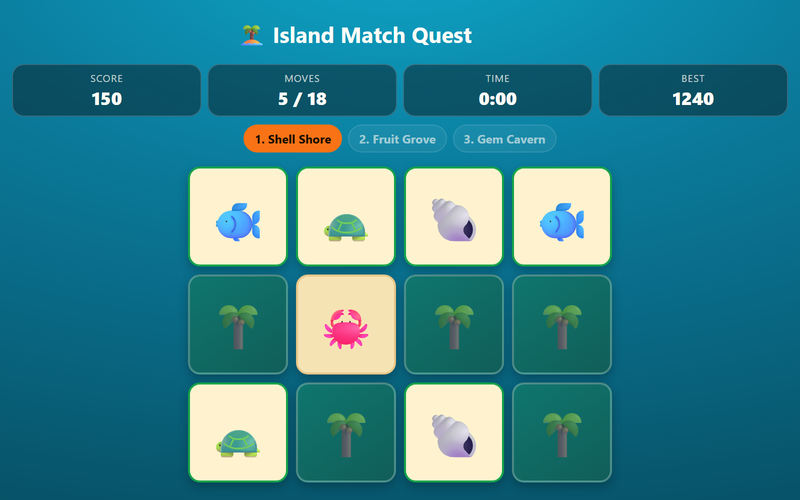
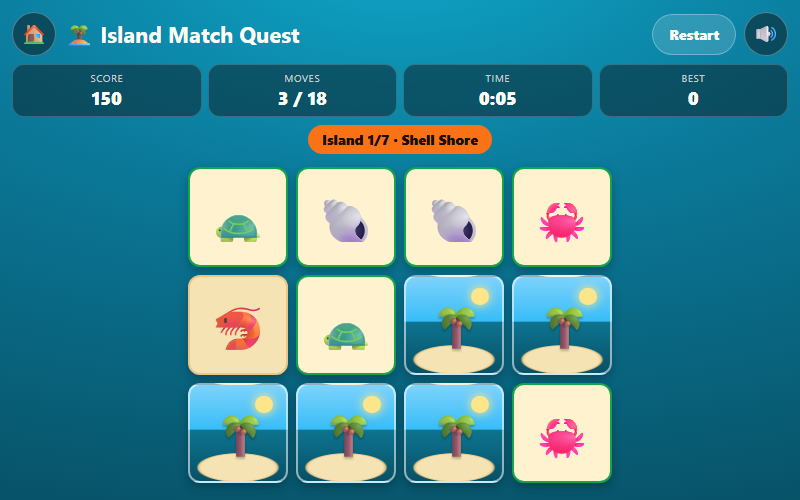
Island Match Quest: tutorial while you play, island card backs, new cover (#36)
- How-to-play box on the home screen replaced by one goal line
- First island teaches the game with short hints, one at a time
- Card backs now show a little island scene (sky, sun, sea, sand, palm)
- New 800x500 thumbnail taken from the current game

Retention: 7 unlocking islands, 21 stars to collect, saved progress.
Time well spent: memory training that grows from 6 to 14 pairs.
Money: second chance at the moment of loss (offerReward), one per island.

diff --git a/games/sumaiyahsultana821-sys/index.html b/games/sumaiyahsultana821-sys/index.html
@@ -65,13 +65,22 @@
   .btn-big:active{box-shadow:0 2px 0 #b4530a; transform:translateY(4px)}
   .cover-best{margin:0; font-size:14px; opacity:.85}
   .cover-best b{color:#ffe9b3}
-  .howto{
-    background:rgba(255,255,255,.1); border:1px solid rgba(255,255,255,.2);
-    border-radius:14px; padding:clamp(8px, 1.6vh, 14px) 16px; max-width:440px; text-align:left;
+  .goal{
+    margin:0; padding:8px 16px; border-radius:999px; max-width:440px;
+    background:rgba(255,255,255,.12); border:1px solid rgba(255,255,255,.25);
+    font-size:clamp(13px, 2vh, 15px); font-weight:700;
   }
-  .howto h2{margin:0 0 4px; font-size:clamp(14px, 2vh, 16px)}
-  .howto ol{margin:0; padding-left:20px; font-size:clamp(12px, 1.8vh, 14px); line-height:1.45; opacity:.95}
-  .howto b{color:#ffe9b3}
+
+  /* First-island tutorial: one short hint at a time, above the board */
+  .hint{
+    align-self:center; margin:0 0 8px; padding:7px 16px; border-radius:14px; max-width:420px;
+    background:#fff3cf; color:var(--ink); text-align:center;
+    font-size:clamp(13px, 3.6vw, 15px); font-weight:700; line-height:1.35;
+    box-shadow:0 4px 12px rgba(0,0,0,.25);
+  }
+  .hint[hidden]{display:none}
+  .hint.show{animation:hintIn .45s ease}
+  @keyframes hintIn{from{opacity:0; transform:translateY(-6px)} to{opacity:1; transform:none}}
   .credit{text-align:center; font-size:11px; opacity:.6; margin-top:6px}
 
   /* ---------- Game ---------- */
@@ -137,11 +146,22 @@
     backface-visibility:hidden; -webkit-backface-visibility:hidden;
     font-size:calc(var(--card) * .45);
   }
+  /* Card back: a tiny island scene (sky, sun, sea, sandy island, palm tree) */
   .card-back{
-    background:linear-gradient(145deg,var(--card-back),var(--card-back-2));
-    border:2px solid rgba(255,255,255,.25);
+    overflow:hidden;
+    background:
+      radial-gradient(ellipse 62% 22% at 50% 86%, #f6e3b4 0 62%, #e8c788 66%, transparent 70%),
+      linear-gradient(180deg, #7dd3fc 0%, #38bdf8 46%, #0e7490 47%, #075166 100%);
+    border:2px solid rgba(255,255,255,.55);
   }
-  .card-back::after{content:"🌴"; opacity:.55}
+  .card-back::before{
+    content:""; position:absolute; top:12%; right:14%; width:18%; height:18%;
+    border-radius:50%; background:#fde68a; box-shadow:0 0 8px 2px rgba(253,230,138,.7);
+  }
+  .card-back::after{
+    content:"🌴"; font-size:calc(var(--card) * .42);
+    transform:translate(4%, 2%); filter:drop-shadow(0 2px 1px rgba(0,0,0,.25));
+  }
   .card-front{
     background:var(--sand); color:var(--ink);
     border:2px solid var(--sand-deep);
@@ -189,11 +209,10 @@
   @media (max-height:740px){ .cover .tag{display:none} }
   @media (max-height:620px){ .cover-art, .credit{display:none} }
   @media (max-height:600px){
-    .howto ol li:nth-child(4){display:none}
     .cover-inner{gap:8px}
   }
   @media (max-height:520px){
-    .howto ol li:nth-child(n+3), .cover-best{display:none}
+    .cover-best{display:none}
     .map{grid-template-columns:repeat(7, minmax(0, 1fr)); max-width:640px}
     .mt-name{display:none}
   }
@@ -219,15 +238,7 @@
     <button id="playBtn" class="btn btn-primary btn-big" type="button">▶ Play</button>
     <p class="cover-best">Best score: <b id="coverBest">0</b> · Stars: <b id="coverStars">0</b></p>
     <div id="map" class="map" aria-label="Island map"></div>
-    <div class="howto">
-      <h2>How to play</h2>
-      <ol>
-        <li>Tap two cards to find a matching pair.</li>
-        <li>Clear every pair to unlock the next island.</li>
-        <li>Each island has a move limit, plus one <b>second chance</b>.</li>
-        <li>Fewer moves earn more <b>⭐ stars</b> and a bigger bonus.</li>
-      </ol>
-    </div>
+    <p class="goal">🎯 Match every pair to unlock the next island</p>
   </div>
   <footer class="credit">Island Match Quest · by Sumaiyah Sultana</footer>
 </section>
@@ -246,6 +257,7 @@
     <div class="hud-item"><span class="hud-label">Best</span><span id="best" class="hud-value">0</span></div>
   </div>
   <div id="islandLabel" class="island-label"></div>
+  <div id="hint" class="hint" role="status" aria-live="polite" hidden></div>
   <div id="boardWrap" class="board-wrap">
     <main id="board" class="board" aria-label="Memory match board"></main>
   </div>
@@ -310,6 +322,53 @@
   var overlayBtn2 = document.getElementById("overlayBtn2");
   var restartBtn = document.getElementById("restartBtn");
   var muteBtn = document.getElementById("muteBtn");
+  var hintEl = document.getElementById("hint");
+
+  /* ---------- First-island tutorial: teach by playing, one short hint at a time ---------- */
+  var TUT_KEY = "islandMatchQuest.tutorialDone";
+  var tutDone = false;
+  try { tutDone = localStorage.getItem(TUT_KEY) === "1"; } catch (e) {}
+  var tut = { active: false, step: 0 };
+
+  function showHint(text){
+    hintEl.textContent = text;
+    hintEl.hidden = false;
+    hintEl.classList.remove("show"); void hintEl.offsetWidth; hintEl.classList.add("show");
+    fitBoard();
+  }
+  function hideHint(){
+    if (hintEl.hidden) return;
+    hintEl.hidden = true;
+    fitBoard();
+  }
+  function startTutorial(){
+    tut.active = true; tut.step = 0;
+    showHint("👆 Tap any card to flip it");
+  }
+  function finishTutorial(){
+    tut.active = false;
+    tutDone = true;
+    try { localStorage.setItem(TUT_KEY, "1"); } catch (e) {}
+    track("tutorial_complete", {});
+    hideHint();
+  }
+  // Called after the first card of a pair is flipped.
+  function tutOnFirstFlip(){
+    if (tut.active && tut.step === 0){ tut.step = 1; showHint("Now tap a second card to find its twin"); }
+  }
+  // Called after a pair is checked (matched or not).
+  function tutOnPair(matched){
+    if (!tut.active) return;
+    if (tut.step <= 1){
+      tut.step = 2;
+      showHint(matched ? "✨ A match! Matched cards stay face up. Clear them all to win." : "No match, so they flip back. Remember where they were!");
+    } else if (tut.step === 2){
+      tut.step = 3;
+      showHint("⭐ Fewer moves earn more stars. You have " + state.moveLimit + " moves here.");
+    } else {
+      finishTutorial();
+    }
+  }
 
   /* ---------- Sound: soft, code-made tones and gentle waves, with a mute button ---------- */
   var MUTE_KEY = "islandMatchQuest.muted";
@@ -641,6 +700,9 @@
 
     renderIslandLabel();
     updateHud();
+    tut.active = false;
+    hintEl.hidden = true;
+    if (index === 0 && !tutDone && !progress.stars[0]) startTutorial();
     fitBoard();
     startTimer();
     track("level_start", { level: index + 1, island: island.name });
@@ -653,6 +715,7 @@
     card.classList.add("flipped");
     state.flipped.push(card);
     soundFlip();
+    if (state.flipped.length === 1) tutOnFirstFlip();
 
     if (state.flipped.length === 2){
       state.moves++;
@@ -678,6 +741,7 @@
           updateHud();
           state.flipped = [];
           state.busy = false;
+          tutOnPair(true);
           if (state.matchedPairs === state.totalPairs) onIslandComplete();
           else checkOutOfMoves();
         }, 350);
@@ -688,6 +752,7 @@
           b.classList.remove("flipped");
           state.flipped = [];
           state.busy = false;
+          tutOnPair(false);
           checkOutOfMoves();
         }, 800);
       }
